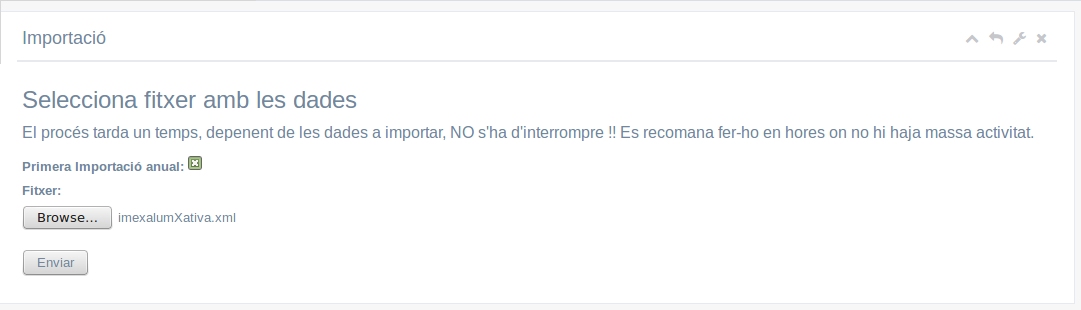
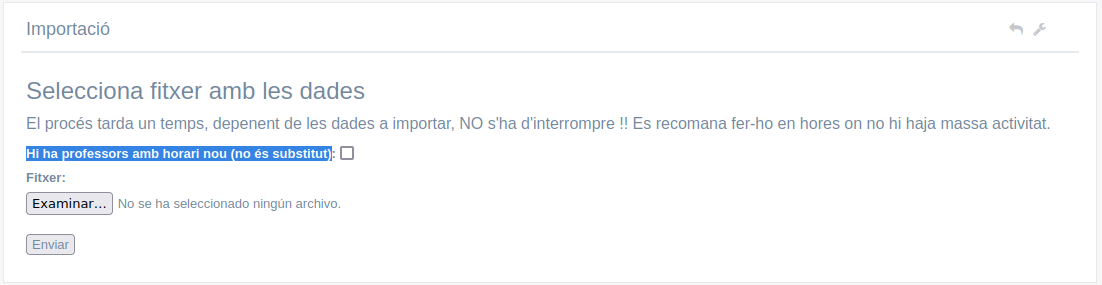
Doc laravel10

diff --git a/docs/desplegament.md b/docs/desplegament.md
@@ -1,5 +1,20 @@
 # Desplegar la intranet en una nova màquina
-Instal·lem el sistema operatiu, preferiblemente sense entorn gràfic. La versió de PHP ha de ser al menys la 7.2, encara que és preferible tindre la 8.
+- [Desplegar la intranet en una nova màquina](#desplegar-la-intranet-en-una-nova-màquina)
+  - [Introducció](#introducció)
+  - [Instal·lar el programari](#installar-el-programari)
+    - [Configurar MySQL](#configurar-mysql)
+    - [Crear la BBDD](#crear-la-bbdd)
+    - [Descarregar la aplicació](#descarregar-la-aplicació)
+    - [Configurar Apache](#configurar-apache)
+  - [Initzialitzar l'aplicació](#initzialitzar-laplicació)
+  - [Importar dades de Itaca](#importar-dades-de-itaca)
+    - [Primera importació](#primera-importació)
+    - [Resta d'importacions](#resta-dimportacions)
+  - [Instal·lar el servidor de correu](#installar-el-servidor-de-correu)
+
+
+## Introducció
+Ací es detalla com configurar el servidor per a la intranet. En aquesta màquina instal·lem el sistema operatiu, preferiblemente sense entorn gràfic. La versió de PHP ha de ser al menys la 7.2, encara que és preferible tindre la 8.
 
 ## Instal·lar el programari
 Els paquets a instal·lar són:
@@ -171,7 +186,7 @@ En el xml de Itaca per a la primera importació han d'estar les següents taules
 * Horaris grup (horaris lectius dels diferents grups)
 * Horaris ocupacions (horaris no lectius dels profsesores)
 
-Les importacions es fan des del menú **Administració -> Importació des de Itaca**. Al ser la primera cal marcar la casella '_Primera Importació anual_'.
+Les importacions es fan des del menú **Administració -> Importació des de Itaca**. Al ser la primera cal marcar la casella '_Hi ha professors amb horari nou (no és substitut)_'.
 
 ![Importar dades itaca](./img/ajuda/setupImportItaca1a-1.png)
 
@@ -185,13 +200,15 @@ Els professors estan asignats per defecte al departament 99 ('Desconegut'). Cada
 
 Els grups por defecte no estan asignats a cap cicle. Per a fer-ho anem a **Professorat -> Gestió grups -> Editar grup** i li posem a cada grup el seu cicle.
 
-Per a finalitzar hem de tornar a fer la importació per a que s'asignen correctament els mòduls als cicles al importar els horaris **sense la casella de 'Primera importació' MARCADA.
+Per a finalitzar hem de tornar a fer la importació per a que s'asignen correctament els mòduls als cicles al importar els horaris **sense la casella de 'Hi ha professors amb horari nou' MARCADA.
 
 ### Resta d'importacions
 En el xml de Itaca per a la resta d'importacions només estaran les taules en que hi haja canvis, normalment:
 * Alumnes per a reflectir les noves matrículas i baixes
-* Profesores, si hay nuevos profesores
+* Profesores, si hi ha nous professors
 * Horaris grup i horaris ocupacions, si hi hagueren canvis
+
+Si hi ha algun professor nou que **no és substitut** d'altre que ja estava hem de marcar la caselle '_Hi ha professors amb horari nou_'.
 
 Marquem 'Assignar tutor' si hi ha nous tutors (si no, no cal) i deixem desmarcada la d'esborrar grups sense tutor.
 
